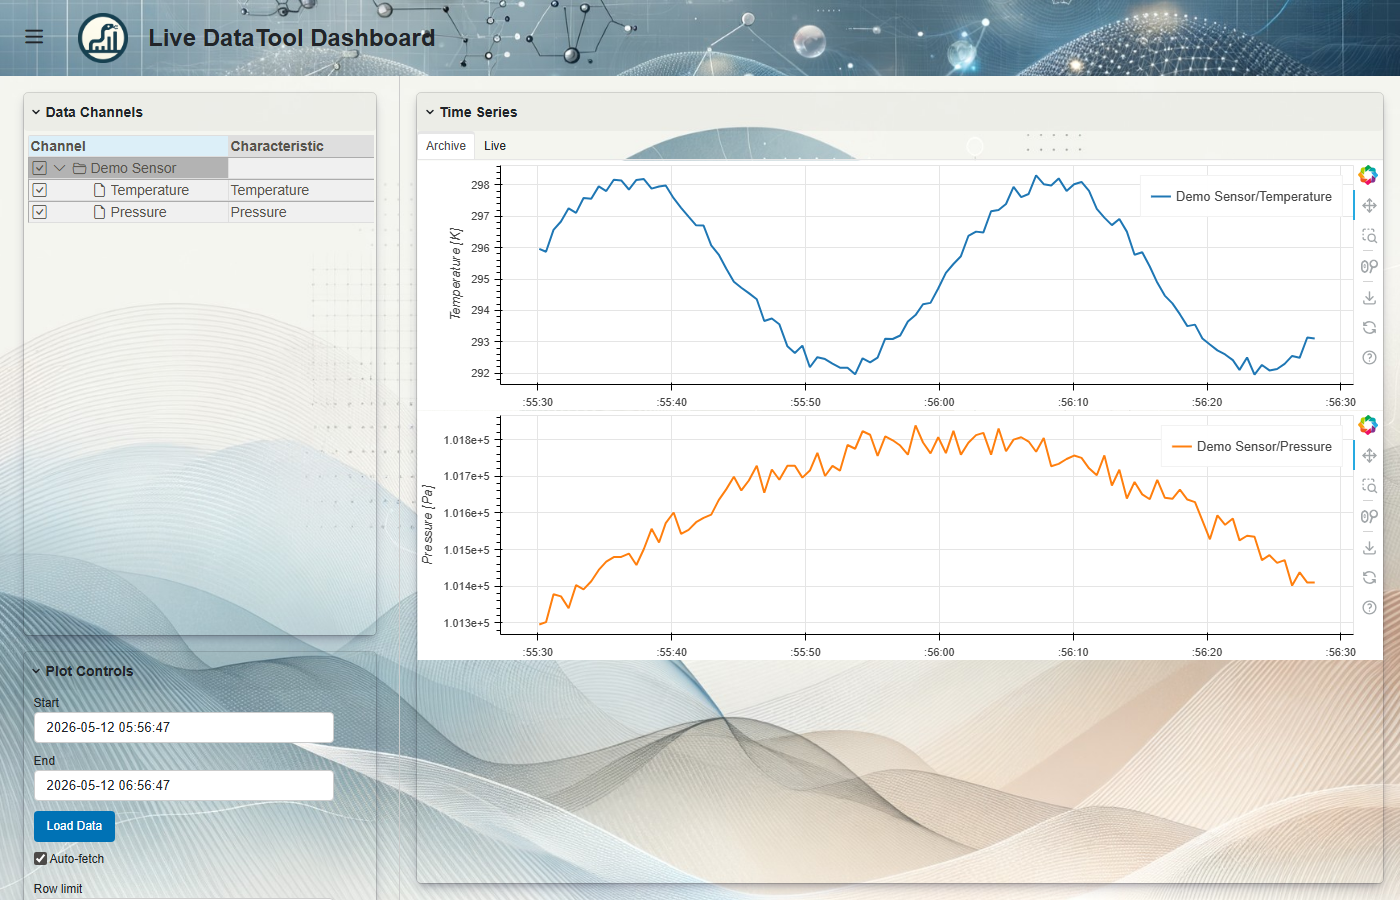
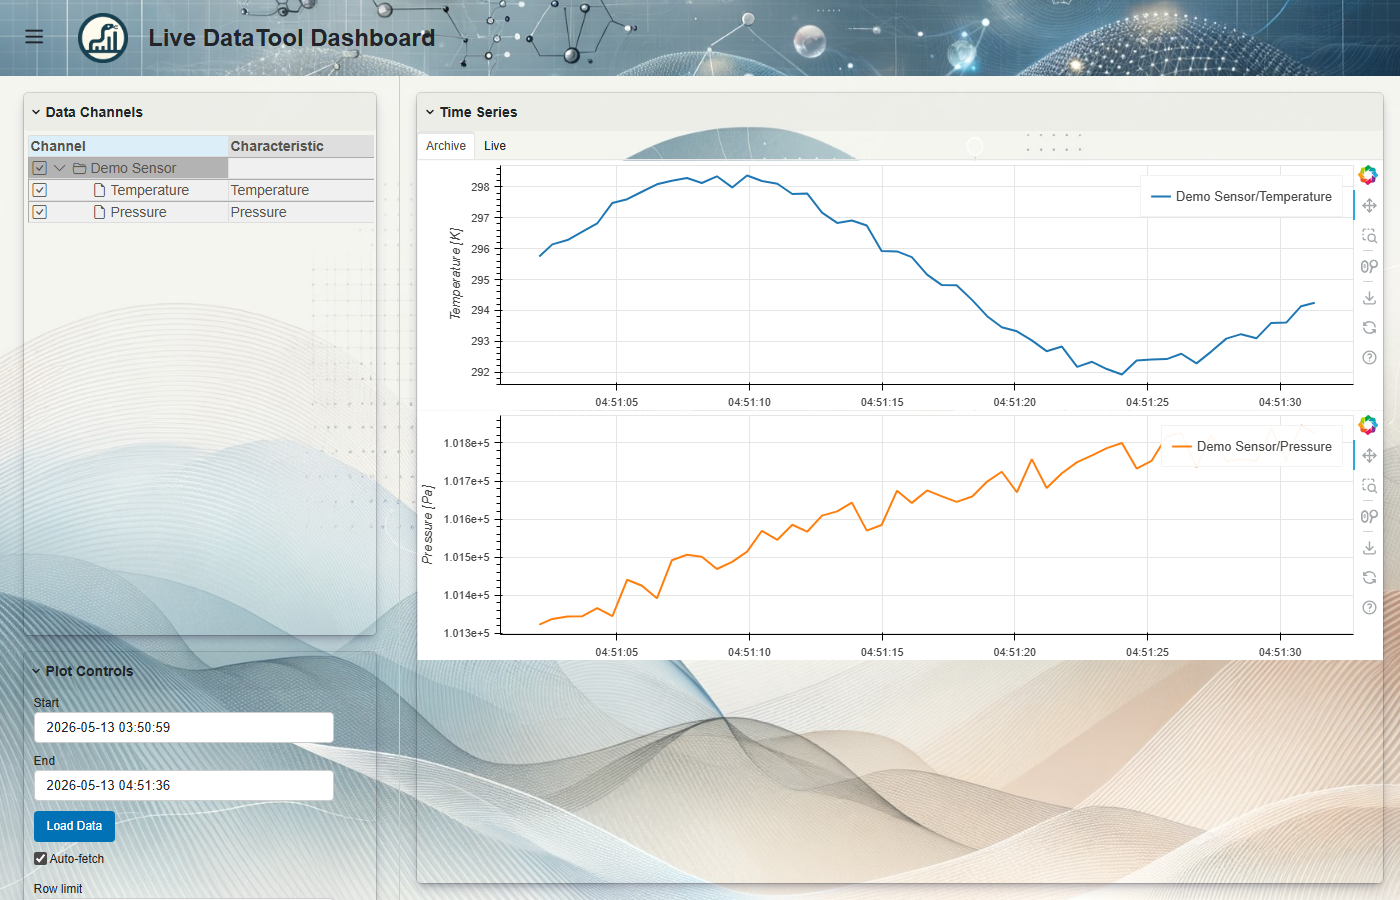
docs: add screenshot generation script, update screenshots

diff --git a/docs/generate_screenshots.py b/docs/generate_screenshots.py
@@ -1,0 +1,162 @@
+"""Generate screenshots and demo GIF for the LiveDataToolView README.
+
+Prerequisites:
+    pip install playwright imageio
+    playwright install chromium
+
+Usage:
+    python docs/generate_screenshots.py
+"""
+
+import io
+import os
+import subprocess
+import sys
+import time
+
+import imageio.v3 as iio
+from playwright.sync_api import sync_playwright
+
+DOCS_DIR = os.path.dirname(os.path.abspath(__file__))
+PACKAGE_DIR = os.path.dirname(DOCS_DIR)
+EXAMPLE = os.path.join(PACKAGE_DIR, "examples", "live_dashboard.py")
+PORT = 5010
+URL = f"http://localhost:{PORT}/live_dashboard"
+VIEWPORT = {"width": 1400, "height": 900}
+
+WB_JS = """
+function findWbShadow(root) {
+    const all = root.querySelectorAll('*');
+    for (const el of all) {
+        if (el.shadowRoot) {
+            const rows = el.shadowRoot.querySelectorAll('.wb-row');
+            if (rows.length > 0) return el.shadowRoot;
+            const deeper = findWbShadow(el.shadowRoot);
+            if (deeper) return deeper;
+        }
+    }
+    return null;
+}
+"""
+
+
+def click_all_checkboxes(page):
+    """Select all Wunderbaum channel checkboxes."""
+    page.evaluate(
+        f"""() => {{
+        {WB_JS}
+        const wbRoot = findWbShadow(document);
+        if (!wbRoot) return;
+        const cbs = wbRoot.querySelectorAll('i.wb-checkbox');
+        for (const cb of cbs) cb.click();
+    }}"""
+    )
+
+
+def click_live_tab(page):
+    """Switch to the Live tab."""
+    tabs = page.locator(".bk-tab")
+    for i in range(tabs.count()):
+        if "Live" in (tabs.nth(i).text_content() or ""):
+            tabs.nth(i).click()
+            return
+
+
+def click_live_toggle(page):
+    """Click the Live toggle button."""
+    toggles = page.locator("button.bk-btn")
+    for i in range(toggles.count()):
+        text = toggles.nth(i).text_content() or ""
+        if "Live" in text:
+            toggles.nth(i).click()
+            return
+
+
+def capture(page, frames, delay=500):
+    """Capture a screenshot frame."""
+    page.wait_for_timeout(delay)
+    buf = page.screenshot()
+    frames.append(iio.imread(io.BytesIO(buf)))
+
+
+def start_server():
+    """Start the Panel server as a subprocess."""
+    # Clean up old DB so example creates fresh data
+    db_path = os.path.join(PACKAGE_DIR, "live_demo_archive.sqlite")
+    if os.path.exists(db_path):
+        os.remove(db_path)
+
+    log_path = os.path.join(DOCS_DIR, "_server.log")
+    log_file = open(log_path, "w")
+    proc = subprocess.Popen(
+        [sys.executable, "-m", "panel", "serve", EXAMPLE, "--port", str(PORT)],
+        stdout=log_file,
+        stderr=subprocess.STDOUT,
+        cwd=PACKAGE_DIR,
+    )
+    # Wait for Panel server to start
+    time.sleep(15)
+    return proc
+
+
+def stop_server(proc):
+    """Stop the Panel server subprocess."""
+    proc.terminate()
+    try:
+        proc.wait(timeout=5)
+    except subprocess.TimeoutExpired:
+        proc.kill()
+
+
+def main():
+    print("Starting Panel server with OPC UA...")
+    proc = start_server()
+
+    try:
+        with sync_playwright() as p:
+            browser = p.chromium.launch(headless=True)
+            page = browser.new_page(viewport=VIEWPORT)
+            page.goto(URL, timeout=20000)
+            # Wait for OPC UA server/client to start and accumulate data
+            # (OPC UA starts per-session when page loads)
+            print("Waiting 30s for OPC UA data to accumulate...")
+            page.wait_for_timeout(30000)
+
+            # Select all channels - auto-fetch finds accumulated data
+            click_all_checkboxes(page)
+            page.wait_for_timeout(5000)
+
+            # Screenshot: archive tab with accumulated data
+            archive_path = os.path.join(DOCS_DIR, "screenshot_archive_tab.png")
+            page.screenshot(path=archive_path)
+            print("screenshot_archive_tab.png saved")
+
+            # Switch to Live tab and start streaming
+            click_live_tab(page)
+            page.wait_for_timeout(1000)
+            click_live_toggle(page)
+
+            # Wait for live data to accumulate
+            page.wait_for_timeout(12000)
+            live_path = os.path.join(DOCS_DIR, "screenshot_live_streaming.png")
+            page.screenshot(path=live_path)
+            print("screenshot_live_streaming.png saved")
+
+            # Create live streaming GIF
+            frames = []
+            for i in range(10):
+                capture(page, frames, 1500)
+
+            gif_path = os.path.join(DOCS_DIR, "live_demo.gif")
+            iio.imwrite(gif_path, frames, duration=1000, loop=0)
+            print(f"live_demo.gif: {len(frames)} frames")
+
+            browser.close()
+
+    finally:
+        print("Stopping server...")
+        stop_server(proc)
+
+
+if __name__ == "__main__":
+    main()

diff --git a/README.md b/README.md
@@ -103,6 +103,8 @@ view.servable()
 
 See [examples/live_dashboard.py](examples/live_dashboard.py) for a full working example with an embedded OPC UA server.
 
+To regenerate the screenshots after UI changes, see [docs/generate_screenshots.py](docs/generate_screenshots.py).
+
 ## Examples
 
 See `examples/` for complete runnable examples: